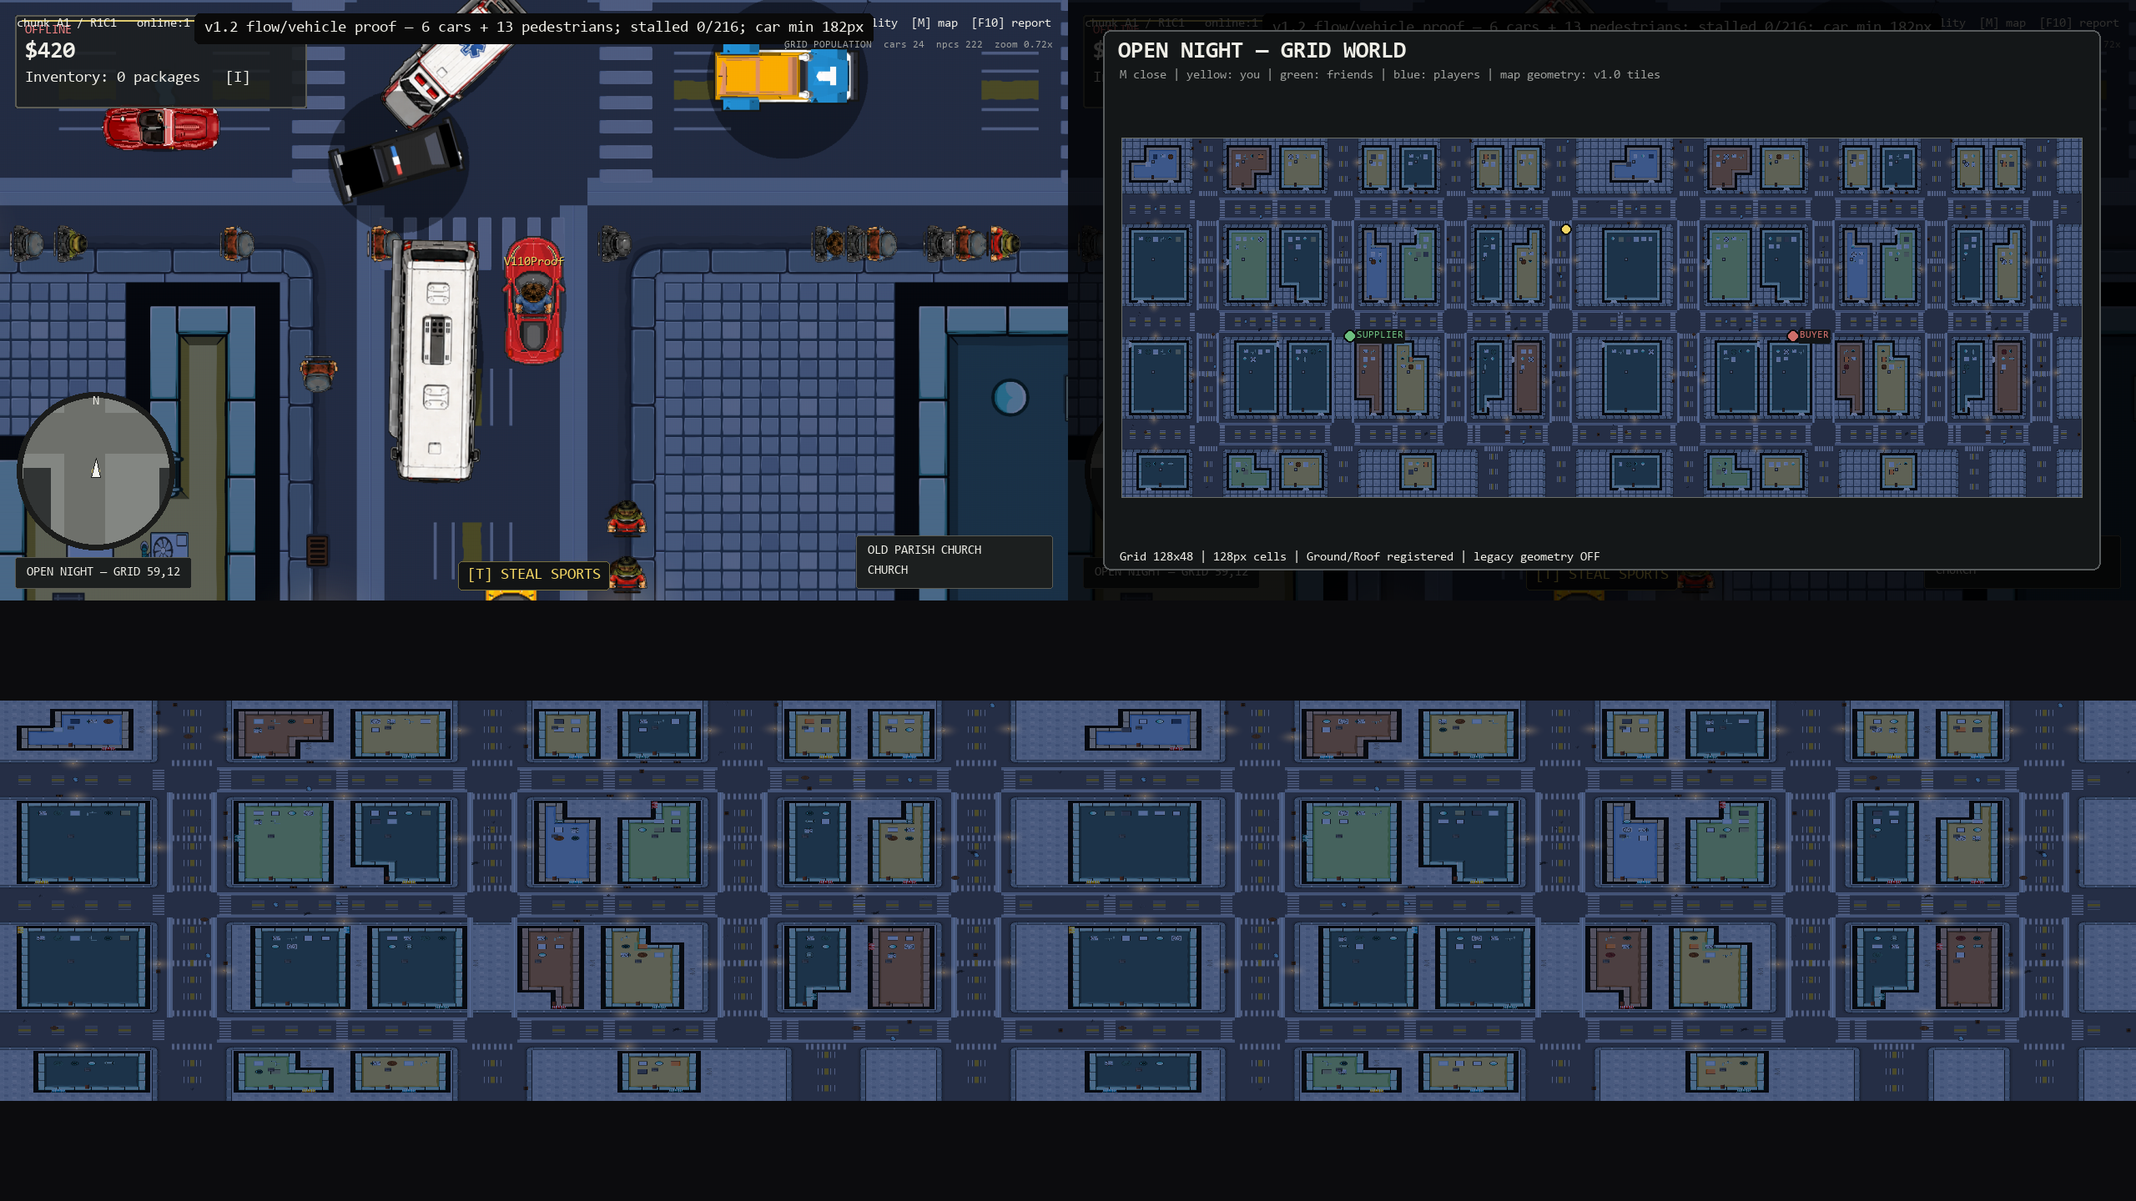
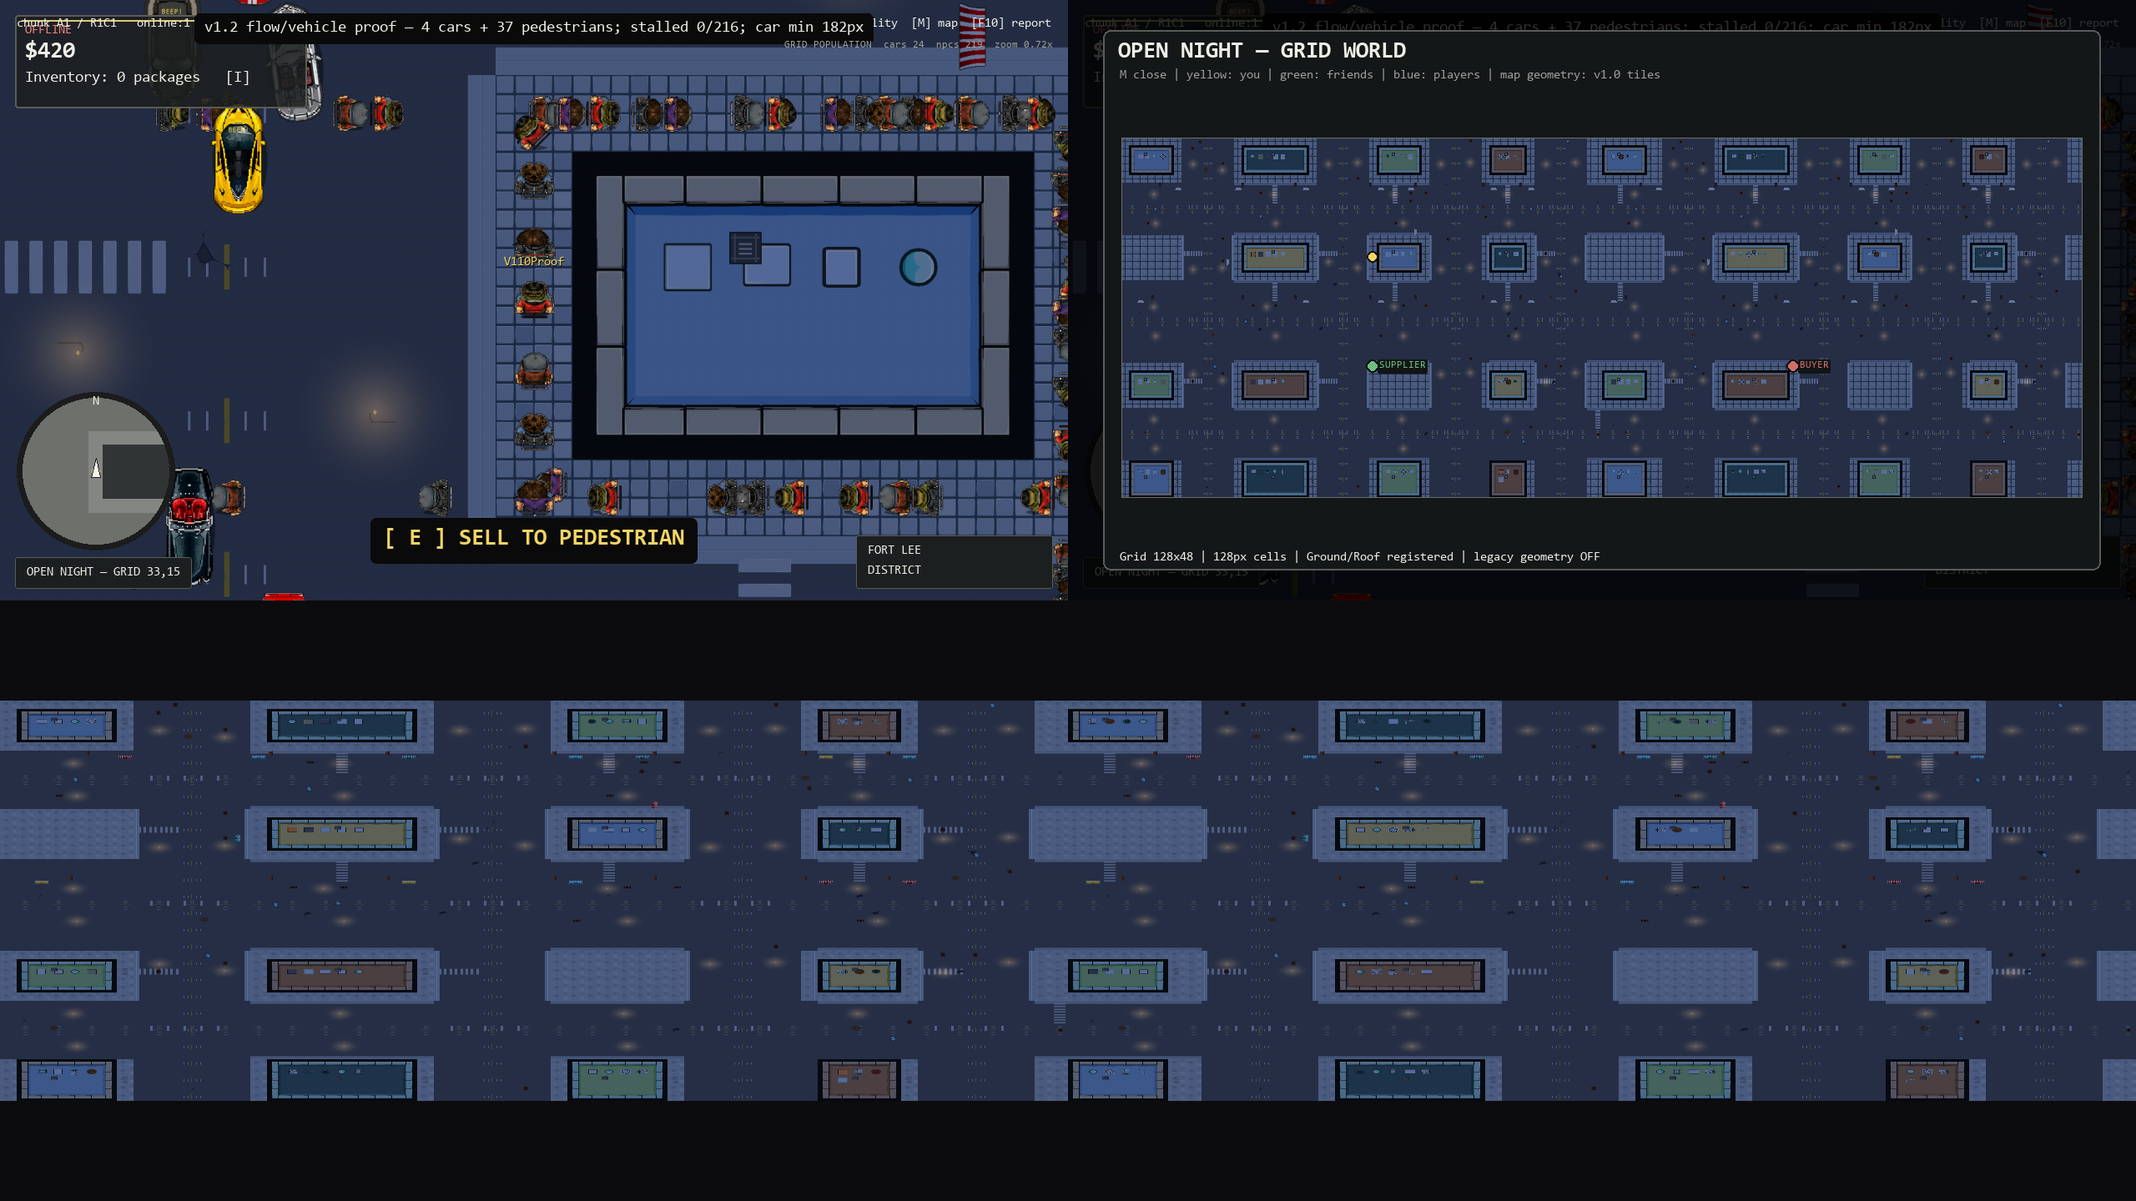
Widen roads and fix v1.2 player reports

diff --git a/grid_runtime.py b/grid_runtime.py
@@ -154,8 +154,20 @@ def _synthesize_ground_runtime(data: dict) -> tuple[list[list[str]], list[dict]]
     """Rebuild the exact shared rectangle/notch grammar in memory."""
     original = _decode_ground(data)
     prior = list((data.get("building_synthesis") or {}).get("buildings") or [])
-    envelopes = ([tuple(map(int, building["rect"])) for building in prior]
-                 if prior else [_largest_axis_aligned_rect(group) for group in _building_components(original)])
+    # v1.2 fixed-release city grammar: real wide-road geometry, not extra lanes
+    # painted into the former narrow streets. The central east/west corridor is
+    # a still-wider highway and blocks are rebuilt at lower density around it.
+    x_blocks = ((0, 7), (15, 25), (33, 40), (48, 54))
+    y_blocks = ((0, 5), (13, 18), (30, 35), (43, 47))
+    envelopes = []
+    for row_index, (y0, y1) in enumerate(y_blocks):
+        for col_index, (x0, x1) in enumerate(x_blocks):
+            # Leave several deterministic open lots/plazas for density variation.
+            if (row_index * 5 + col_index) % 7 == 5:
+                continue
+            inset_x = 1 if x1 - x0 >= 5 else 0
+            inset_y = 1 if y1 - y0 >= 5 else 0
+            envelopes.append((x0 + inset_x, y0 + inset_y, x1 - inset_x, y1 - inset_y))
     rows = [list(row) for row in original]
     for y, row in enumerate(rows):
         for x, tile_id in enumerate(row):
@@ -164,7 +176,7 @@ def _synthesize_ground_runtime(data: dict) -> tuple[list[list[str]], list[dict]]
 
     buildings = []
     for index, rect in enumerate(envelopes, 1):
-        theme = _theme_for_rect(index, rect)
+        theme = THEMES[(index - 1) % len(THEMES)]
         x0, y0, x1, y1 = rect
         buildings.append({
             "building_id": f"grid_building_{index:02d}",
@@ -172,7 +184,14 @@ def _synthesize_ground_runtime(data: dict) -> tuple[list[list[str]], list[dict]]
             "footprint_type": "rectangle",
             "orientation_policy": "filename_semantics_no_rotation",
         })
-    assign_notches(buildings, THEMES)
+    try:
+        assign_notches(buildings, THEMES)
+    except RuntimeError:
+        # Wide-road blocks intentionally include smaller footprints; rectangles
+        # remain authoritative when a balanced notch set cannot be formed.
+        for building in buildings:
+            building["notch"] = None
+            building["footprint_type"] = "rectangle"
     for building in buildings:
         rect = tuple(map(int, building["rect"]))
         footprint = footprint_for(rect, building.get("notch"))
@@ -181,7 +200,15 @@ def _synthesize_ground_runtime(data: dict) -> tuple[list[list[str]], list[dict]]
         building["generated_cells"] = len(footprint)
         building["envelope_cells"] = (rect[2] - rect[0] + 1) * (rect[3] - rect[1] + 1)
 
-    rows, road_morphology = apply_road_morphology(rows)
+    road_morphology = {"version": 3, "composition_pass": "wide_road_morphology_v120"}
+    vertical_centers = (11, 29, 44, 58)
+    horizontal_bands = ((9, 3), (24, 5), (39, 3))
+    for y in range(len(rows)):
+        for x in range(len(rows[y])):
+            if any(abs(x - center) <= 3 for center in vertical_centers) or any(
+                abs(y - center) <= radius for center, radius in horizontal_bands
+            ):
+                rows[y][x] = "road_fill"
     if any(not rows[y][x].startswith("bld_") for building in buildings
            for x, y in footprint_for(tuple(map(int, building["rect"])), building.get("notch"))):
         raise ValueError("road morphology pass overlapped an authoritative building footprint")
@@ -201,6 +228,12 @@ def _synthesize_ground_runtime(data: dict) -> tuple[list[list[str]], list[dict]]
         "runtime_synthesized": True,
     }
     data["road_morphology"] = road_morphology
+    data["road_morphology"].update({
+        "physical_primary_road_width_cells": 7,
+        "physical_central_highway_width_cells": 11,
+        "lower_density_block_count": len(buildings),
+        "geometry_authority": "v120_wide_roads_and_central_highway",
+    })
     return rows, buildings
 
 
@@ -296,6 +329,34 @@ def _generated_ground_objects(rows: list[list[str]], buildings: list[dict]) -> l
     return objects
 
 
+def _wide_road_markings() -> list[dict]:
+    """Sparse city-block markings registered to the new physical road centers."""
+    objects: list[dict] = []
+    for center in (11, 29, 44, 58):
+        for gy in range(1, 48, 2):
+            objects.append({
+                "asset": "mark_yellow_repeating_single", "gx": center, "gy": gy,
+                "width_px": 18, "height_px": 150, "rotation": 0,
+                "street_marking": "dashed_center_line_vertical",
+            })
+    for center in (9, 24, 39):
+        for gx in range(1, 64, 2):
+            objects.append({
+                "asset": "mark_yellow_repeating_single", "gx": gx, "gy": center,
+                "width_px": 18, "height_px": 150, "rotation": 90,
+                "street_marking": "dashed_center_line_horizontal",
+            })
+    for cx in (11, 29, 44, 58):
+        for cy in (9, 24, 39):
+            for stripe in range(-2, 3):
+                objects.append({
+                    "asset": "mark_white_crossing_piece", "gx": cx + stripe, "gy": cy,
+                    "width_px": 38, "height_px": 150, "rotation": 0,
+                    "street_marking": "zebra_highway_crossing",
+                })
+    return objects
+
+
 def _fallback_roof_data(ground_data: dict, rows: list[list[str]], buildings: list[dict]) -> dict:
     roof = [[tile_id if tile_id.startswith("bld_") else "void" for tile_id in row] for row in rows]
     roof_objects = []
@@ -380,7 +441,13 @@ def load_ground_grid() -> GridWorld:
 
     if GRID_GENERATED_OBJECTS_PATH.is_file():
         generated = json.loads(GRID_GENERATED_OBJECTS_PATH.read_text(encoding="utf-8"))
-        ground_generated = list(generated.get("objects", []))
+        valid_building_ids = {str(building["building_id"]) for building in buildings}
+        ground_generated = [
+            obj for obj in generated.get("objects", [])
+            if not obj.get("street_marking")
+            and (not obj.get("building_id") or str(obj.get("building_id")) in valid_building_ids)
+        ]
+        ground_generated.extend(_wide_road_markings())
         ground_generated += [_east_district_copy(obj, BASE_GRID_WIDTH) for obj in ground_generated]
     else:
         ground_generated = _generated_ground_objects(ground_rows, buildings)

diff --git a/server.py b/server.py
@@ -388,6 +388,7 @@ class TrafficVehicle:
     last_progress_x: float = 0.0
     last_progress_y: float = 0.0
     home_fraction: float = 0.0
+    horn_until: float = 0.0
 
     def public_dict(self) -> dict:
         return {
@@ -407,6 +408,7 @@ class TrafficVehicle:
             "passengers": len(self.passenger_ids),
             "passenger_capacity": PASSENGER_CAPACITY,
             "parked": bool(self.parked),
+            "horn": time.monotonic() < self.horn_until,
         }
 
 
@@ -901,6 +903,18 @@ def _traffic_should_yield_to_player(car: TrafficVehicle, target: tuple[float, fl
     return False
 
 
+def _traffic_should_yield_to_pedestrian(car: TrafficVehicle, heading: float) -> bool:
+    """Brake for a pedestrian ahead and expose a short horn signal."""
+    hx, hy = math.cos(heading), math.sin(heading)
+    for npc in npc_pedestrians:
+        rx, ry = npc.x - car.x, npc.y - car.y
+        forward = rx * hx + ry * hy
+        lateral = abs(rx * hy - ry * hx)
+        if 0.0 < forward < 145.0 and lateral < car.collision_width * 0.5 + 24.0:
+            return True
+    return False
+
+
 def _traffic_grid(vehicles: list[TrafficVehicle]) -> dict[tuple[int, int], list[TrafficVehicle]]:
     """Cheap spatial hash used for car following and collision avoidance."""
     grid: dict[tuple[int, int], list[TrafficVehicle]] = {}
@@ -1157,6 +1171,9 @@ def update_traffic(dt: float, sessions: list[ClientSession], server_time: float)
 
         if _traffic_should_yield_to_player(car, target, sessions):
             desired = 0.0
+        if _traffic_should_yield_to_pedestrian(car, heading):
+            desired = 0.0
+            car.horn_until = max(car.horn_until, time.monotonic() + 0.35)
 
         accel = 95.0 if desired > car.speed else TRAFFIC_BRAKE_DECEL
         speed = min(desired, car.speed + accel * dt) if car.speed < desired else max(desired, car.speed - accel * dt)
@@ -1528,7 +1545,26 @@ def update_npcs(dt: float, sessions: list[ClientSession], tick_index: int) -> No
                 blocked_ahead = True
                 break
         if blocked_ahead:
-            npc.pause_timer = 0.18 + (sum(ord(c) for c in npc.npc_id) % 7) * 0.025
+            identity = sum(ord(c) for c in npc.npc_id)
+            sx, sy = -uy, ux
+            allow_road = npc.kind == "pedestrian" and identity % 7 == 0
+            moved_aside = False
+            neighbours = nearby_from_grid(npc, grid, max(64.0, personal_space * 3.0), 1)
+            for direction in ((1.0, -1.0) if identity % 2 == 0 else (-1.0, 1.0)):
+                nx = npc.x + ux * min(8.0, npc.speed * step_dt) + sx * personal_space * 0.9 * direction
+                ny = npc.y + uy * min(8.0, npc.speed * step_dt) + sy * personal_space * 0.9 * direction
+                surface = GRID_WORLD.collision_at("ground", nx, ny) if GRID_WORLD is not None else "sidewalk"
+                allowed = {"walk", "sidewalk", "road"} if allow_road else {"walk", "sidewalk"}
+                if surface not in allowed:
+                    continue
+                if any(other is not npc and (other.x - nx) ** 2 + (other.y - ny) ** 2 < personal_space ** 2
+                       for other in neighbours):
+                    continue
+                npc.x, npc.y, npc.aim = nx, ny, math.atan2(uy, ux)
+                moved_aside = True
+                break
+            if not moved_aside:
+                npc.pause_timer = 0.10 + (identity % 5) * 0.02
             continue
 
         step = min(dist, npc.speed * step_dt)

diff --git a/tools/audit_v120_player_reports.py b/tools/audit_v120_player_reports.py
@@ -53,7 +53,12 @@ def main() -> None:
         assert abs(cx - world.cell_px / 2.0) <= 1.0 and abs(cy - world.cell_px / 2.0) <= 1.0, row
     lane_dividers = [row for row in world.objects if str(row.get("street_marking", "")).startswith("six_lane_divider_")]
     assert len(lane_dividers) == len(centerlines) * 4, "primary roads do not expose four dividers / six lanes"
-    assert len(centerlines) == 232 and len(lane_dividers) == 928, "doubled district road markings are incomplete"
+    assert len(centerlines) == 384 and len(lane_dividers) == 1536, "doubled wide-road markings are incomplete"
+    morphology = world.data.get("road_morphology", {})
+    assert morphology.get("physical_primary_road_width_cells") == 7, "primary roads are not physically wide"
+    assert morphology.get("physical_central_highway_width_cells") == 11, "central highway is not physically wider"
+    assert len(world.data.get("building_synthesis", {}).get("buildings", [])) == 28, "building density was not reduced"
+    assert all(row.get("asset") == "mark_white_repeating_single" for row in lane_dividers), "lane lines do not use city-block art"
     assert world.width * world.height == 6144 and world.data.get("playable_area_multiplier") == 2, "playable map area is not exact 2x"
     routes = v110_grid_population._build_traffic_routes(world)
     lane_pairs = {(row.get("lane_direction"), int(row.get("lane_index", 0))) for row in routes}
@@ -81,6 +86,10 @@ def main() -> None:
     updater_source = (ROOT / "UPDATE_OPEN_NIGHT.bat").read_text(encoding="utf-8")
     assert 'self.pause_page == "controls"' in client_source
     assert 'draw_character(self.screen, (sx, sy)' in client_source
+    assert 'pygame.draw.circle(self.screen, color, (sx, sy), 28' in client_source, "supplier NPC lacks final-space visibility halo"
+    server_source = (ROOT / "server.py").read_text(encoding="utf-8")
+    assert "_traffic_should_yield_to_pedestrian" in server_source and '"horn": time.monotonic() < self.horn_until' in server_source
+    assert "moved_aside" in server_source and 'allow_road = npc.kind == "pedestrian"' in server_source
     assert "Install: %CD%" in updater_source and "Commit: !LOCAL_SHA!" in updater_source
     print(f"V120_PLAYER_REPORTS_OK signals={len(signals)} roof_decals={len(roof_decals)} centerlines={len(centerlines)} lane_dividers={len(lane_dividers)} sidewalk_apron={v110_pedestrian_connectivity.SIDEWALK_APRON_FRACTION:.2f} sidewalk_drive=yes job_npcs=yes controls_tab=yes frames_removed=yes")
 

diff --git a/v110_pedestrian_connectivity.py b/v110_pedestrian_connectivity.py
@@ -398,7 +398,23 @@ def build_routes(population_module, world, max_routes: int | None = None) -> lis
 
     # Largest/multi-block loops first so all six central blocks participate before
     # small local cycles consume the route budget.
-    candidates.sort(key=lambda item: (-item[0], -item[1], item[2], item[4], item[3], item[5]))
+    candidates.sort(key=lambda item: (
+        0 if item[0] > 1 else 1,
+        0 if item[2] == 0 and item[4] == 0 else 1,
+        -item[0], -item[1], item[2], item[4], item[3], item[5],
+    ))
+    if candidates:
+        connected = [candidates.pop(0)]
+        connected_cells = set(connected[0][-1])
+        while candidates and len(connected) < limit:
+            match = next((index for index, item in enumerate(candidates)
+                          if connected_cells & set(item[-1])), None)
+            if match is None:
+                break
+            item = candidates.pop(match)
+            connected.append(item)
+            connected_cells.update(item[-1])
+        candidates = connected
     routes: list[dict] = []
     multi_block = 0
     crosswalk_routes = 0
@@ -424,6 +440,24 @@ def build_routes(population_module, world, max_routes: int | None = None) -> lis
         route_cells.append(set(cells))
         if len(routes) >= limit:
             break
+
+    # Wide corridors reduce the number of distinct rectangle perimeters. Add a
+    # parallel traversal of a safe multi-block route; individual pedestrians can
+    # still reverse through the server's bounded change-of-mind behaviour.
+    if routes and multi_block < 6 and len(routes) < limit:
+        source_index = next((index for index, route in enumerate(routes)
+                             if int(route.get("block_span_rows", 0)) * int(route.get("block_span_cols", 0)) > 1), None)
+        if source_index is not None:
+            source = routes[source_index]
+            parallel = dict(source)
+            parallel["id"] = f"grid_ped_connected_{len(routes):02d}_parallel"
+            parallel["waypoints"] = list(source["waypoints"])
+            parallel["parallel_flow_pair"] = source["id"]
+            routes.append(parallel)
+            route_cells.append(set(route_cells[source_index]))
+            multi_block += 1
+            if source.get("crosswalk_connected"):
+                crosswalk_routes += 1
 
     if not routes:
         return []

diff --git a/client.py b/client.py
@@ -1072,6 +1072,7 @@ class RemoteVehicle:
         self.passengers = int(data.get("passengers", 0))
         self.passenger_capacity = int(data.get("passenger_capacity", 3))
         self.parked = bool(data.get("parked", False))
+        self.horn = bool(data.get("horn", False))
 
     def update(self, data: dict) -> None:
         old_x, old_y = self.target_x, self.target_y
@@ -1103,6 +1104,7 @@ class RemoteVehicle:
         self.passengers = int(data.get("passengers", self.passengers))
         self.passenger_capacity = int(data.get("passenger_capacity", self.passenger_capacity))
         self.parked = bool(data.get("parked", self.parked))
+        self.horn = bool(data.get("horn", self.horn))
 
     def smooth(self, dt: float) -> None:
         t = 1.0 - math.exp(-12.0 * dt)
@@ -2659,6 +2661,9 @@ class Game:
         sx, sy = self.world_to_screen(car.render_x, car.render_y)
         target_len = int(max(62, car.render_length * 1.38))
         if draw_car(self.screen, (sx, sy), car.angle, car.sprite_index, target_length=target_len, speed=car.speed):
+            if car.horn:
+                beep = self.tiny_font.render("BEEP!", True, (245, 215, 92))
+                self.screen.blit(beep, beep.get_rect(midbottom=(sx, sy - 38)))
             return
         length = max(24, int(car.collision_length))
         width = max(14, int(car.collision_width))
@@ -2828,6 +2833,9 @@ class Game:
                 continue
             if sx < -90 or sy < -90 or sx > w + 90 or sy > h + 90:
                 continue
+            appearance = normalize_character({"preset": 2 if label == "SUPPLIER" else 4})
+            pygame.draw.circle(self.screen, color, (sx, sy), 28, width=3)
+            draw_character(self.screen, (sx, sy), 0.0, appearance, scale=2, moving=False, anim_time=0.0)
             title = self.small_font.render(label, True, color)
             sub = self.tiny_font.render(sublabel, True, TEXT_COLOR)
             title_rect = title.get_rect(center=(sx, sy - 52))

diff --git a/v100_runtime_refinement.py b/v100_runtime_refinement.py
@@ -294,15 +294,19 @@ def apply_world_refinement(world):
             continue
         for divider_index, displacement in enumerate((-128, -64, 64, 128), start=1):
             divider = dict(item)
-            divider["asset"] = "mark_white_crossing_piece"
-            divider["width_px"] = 10
+            divider["asset"] = "mark_white_repeating_single"
+            divider["width_px"] = 7
+            divider["height_px"] = 64
             divider["street_marking"] = f"six_lane_divider_{'vertical' if marking.endswith('vertical') else 'horizontal'}"
             divider["lane_divider_index"] = divider_index
             divider["six_lane_network"] = True
             if marking.endswith("vertical"):
-                divider["offset_x_px"] = world.cell_px // 2 + displacement - 5
+                divider["offset_x_px"] = world.cell_px // 2 + displacement - 3
+                divider["offset_y_px"] = (world.cell_px - divider["height_px"]) // 2
             else:
-                divider["offset_y_px"] = world.cell_px // 2 + displacement - 5
+                divider["rotation"] = 90
+                divider["offset_x_px"] = (world.cell_px - divider["height_px"]) // 2
+                divider["offset_y_px"] = world.cell_px // 2 + displacement - 3
             lane_dividers.append(divider)
     world.objects.extend(lane_dividers)
     world.data.setdefault("runtime_refinement", {})["six_lane_divider_count"] = len(lane_dividers)
